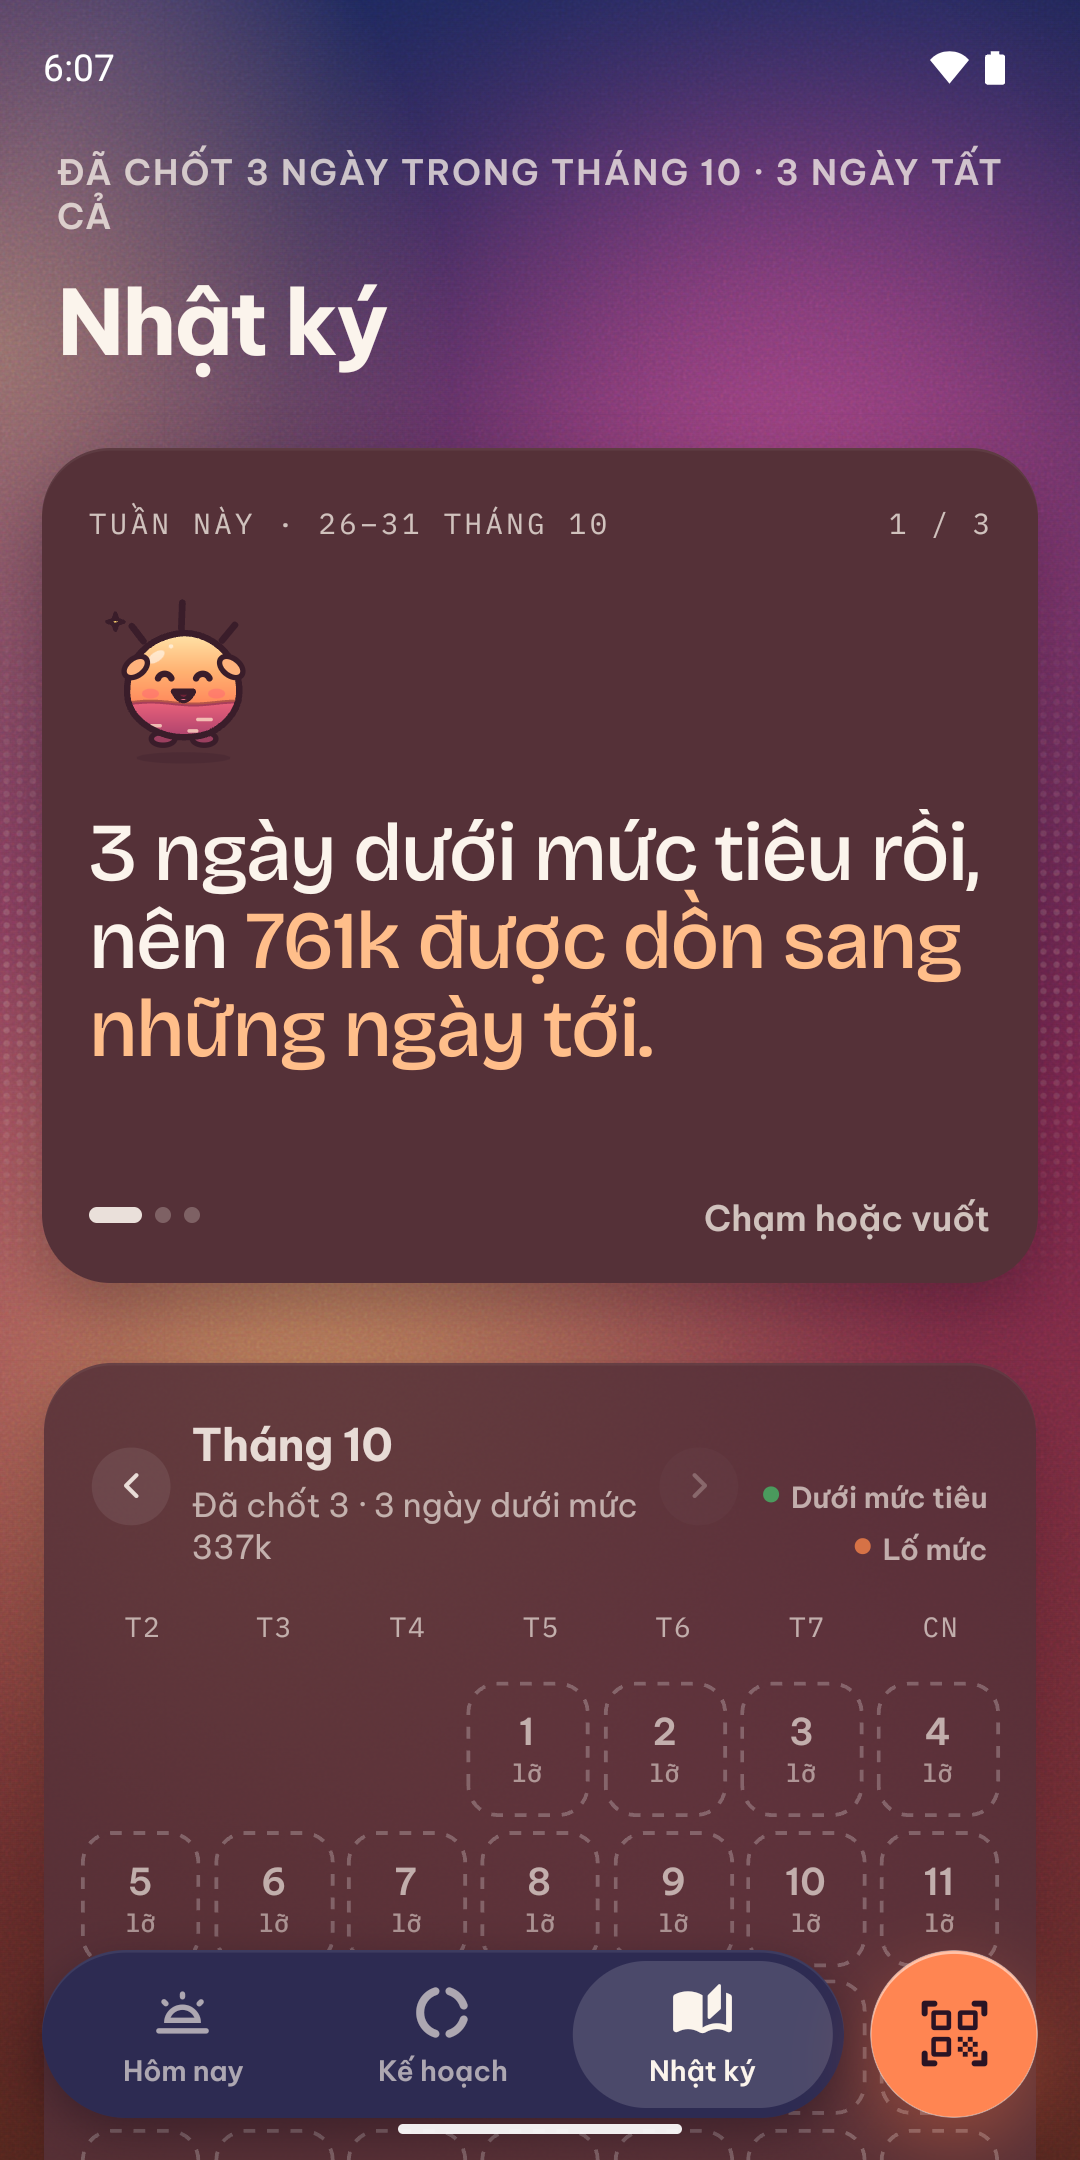
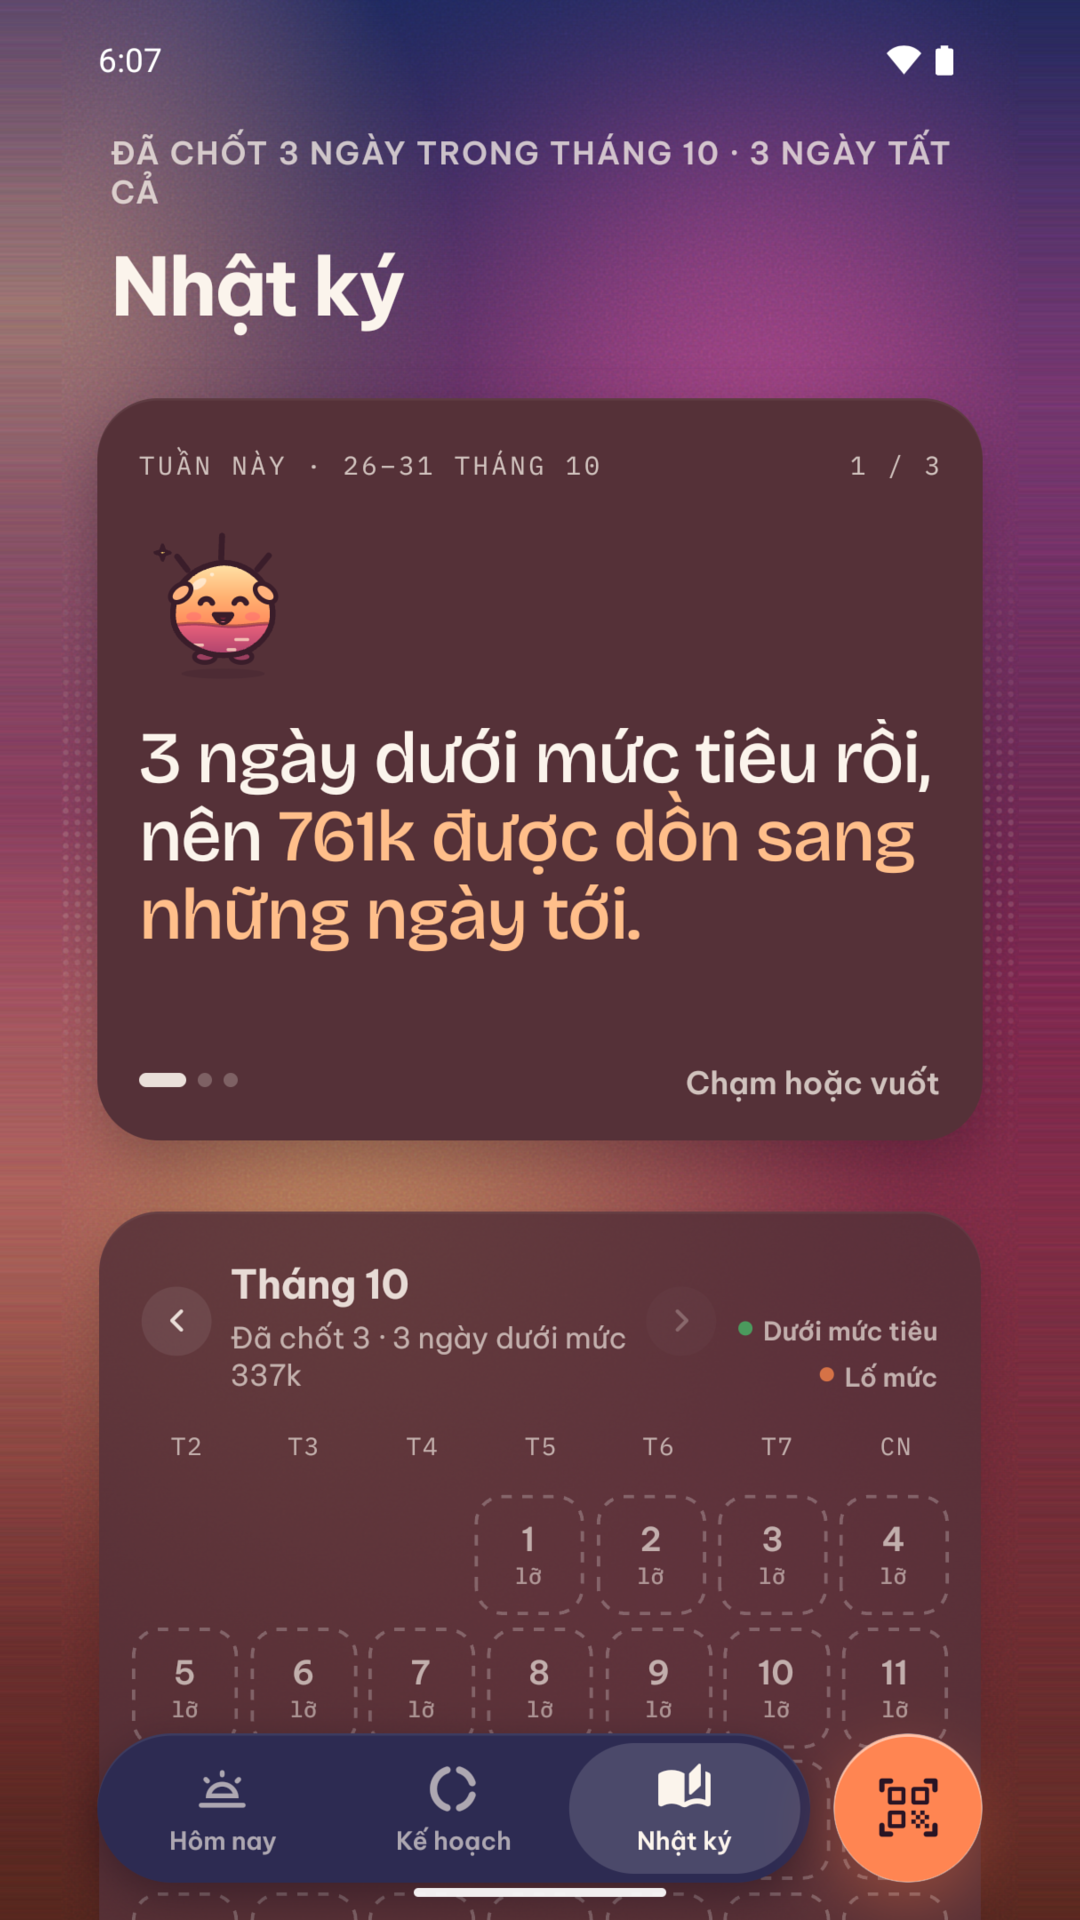
chore(store): Play billing, 9:16 screenshots and the app content answers as entered
The prd profile carries the Play Store app's RevenueCat key. The README records the RevenueCat
service account, the real-time notification topic, the Data safety answers as entered in the
Console, and the first internal testing release.

diff --git a/apps/mobile/store/play/README.md b/apps/mobile/store/play/README.md
@@ -4,7 +4,7 @@ What the Play Console asks for before a build can go to a testing track, for `ap
 build is `app.at6pm.dev`). Android cannot use the iOS id: `ai.sixpm.app` is held on Play by a
 developer account that was closed, and Play never frees a package name. The text
 follows the App Store listing (`../README.md`, `store.config.json`), less what Android does not have
-(Apple Pay, widgets, Siri, Budget together, the companion's Home Screen icon, on-device models) and
+(Apple Pay, widgets, Siri, Budget together, the companion's Home Screen icon, on-device mode) and
 with what it has instead (bank and wallet notifications).
 
 ## Graphics
@@ -13,16 +13,16 @@ with what it has instead (bank and wallet notifications).
 | --- | --- | --- |
 | `icon-512.png` | App icon | 512 × 512 |
 | `{en-US,vi}/feature-graphic.png` | Feature graphic | 1024 × 500, the App Store header creative cropped to its middle |
-| `{en-US,vi}/screenshots/*.png` | Phone screenshots | 1080 × 2160 (Play takes at most 2:1) |
+| `{en-US,vi}/screenshots/*.png` | Phone screenshots | 1080 × 1920 (Play takes only 9:16) |
 
 ### Screenshots
 
 Real captures of the developer build on the Android emulator (`sixpm-pixel`), in order: Today, the
 Close, Bank alerts, the Inbox, Quick add, Plan and Diary. Each is the Friday fixture with the clock
 pinned at 18:07 (`dev-command.json`: `{"seed":"friday","at":"18:07","route":"/close"}`, in dollars for
-en-US and đồng for vi; its categories take the app's language). The screen is set to the 2:1 Play
-allows (`adb shell wm size 1080x2160`), with the dev Tools button off and Android's demo status bar at
-18:07 (`com.android.systemui.demo`). The app language follows Android's per-app language
+en-US and đồng for vi; its categories take the app's language). The screen is set to 2:1 (`adb shell wm size 1080x2160`), with the dev Tools button off and Android's demo status bar at
+18:07 (`com.android.systemui.demo`); each is then scaled to 1920 tall and its own side edges extended to
+1080 wide, since Play takes only 9:16. The app language follows Android's per-app language
 (`cmd locale set-app-locales app.at6pm.dev --locales vi-VN`).
 
 ## Text
@@ -63,7 +63,7 @@ LOOKS AND COMPANIONS
 Eleven looks, from Sơn Mài lacquer to Neon Alley, that follow your real clock from dawn to midnight. Six companions keep you company.
 
 PRIVATE BY DESIGN
-No bank login, ever. Your money stays encrypted on your phone. On-device mode keeps everything on this phone. 6pm is open source.
+No bank login, ever. Your money stays encrypted on your phone. 6pm is open source.
 
 6pm is free. 6pm Max adds every look, unlimited Ask and pots, Travel mode, the Year book, and encrypted backup and export.
 
@@ -109,7 +109,7 @@ GIAO DIỆN VÀ BẠN ĐỒNG HÀNH
 Mười một giao diện, từ Sơn Mài đến Neon Alley, đổi theo giờ thật từ bình minh đến nửa đêm. Sáu bạn đồng hành ở bên bạn.
 
 RIÊNG TƯ TỪ ĐẦU
-Không bao giờ hỏi mật khẩu ngân hàng. Dữ liệu được mã hoá trên điện thoại. Chế độ trên máy giữ mọi thứ ở lại điện thoại. 6pm là mã nguồn mở.
+Không bao giờ hỏi mật khẩu ngân hàng. Dữ liệu được mã hoá trên điện thoại. 6pm là mã nguồn mở.
 
 6pm miễn phí. 6pm Max mở mọi giao diện, Hỏi và hũ không giới hạn, chế độ Du lịch, Sổ năm, sao lưu mã hoá và xuất dữ liệu.
 
@@ -126,7 +126,7 @@ Chính sách quyền riêng tư: https://at6pm.app/vi/privacy
 | Form | Answer |
 | --- | --- |
 | Privacy policy | https://at6pm.app/privacy (covers Android once the Android section is deployed) |
-| App access | All functionality is available without special access: no account, no login |
+| App access | No account or login, but 6pm Max is paid: the form wants a way into every paid feature, so a Max promo code goes in once the products exist (Target audience waits on this form) |
 | Ads | No ads |
 | Content rating | IARC questionnaire, category Utility/Productivity: no violence, sexuality, language, drugs, gambling or user-generated content shared with others; users do not interact; no location shared with others; digital purchases: yes |
 | Target audience | 18 and over (the policy says not made for children under 16) |
@@ -143,13 +143,18 @@ Data **collected** (leaves the phone):
 
 | Data type | Collected | Shared | Why | Optional |
 | --- | --- | --- | --- | --- |
-| App info and performance → Crash logs, Diagnostics | Yes | No | App functionality (crash reports, Sentry; off in on-device mode) | Yes (on-device mode) |
+| App info and performance → Crash logs, Diagnostics | Yes | No | Analytics (crash reports, Sentry; Android has no on-device mode to turn them off) | No |
 | Device or other IDs | Yes | No | App functionality, fraud prevention (anonymous device token, stored hashed) | No |
 | Financial info → Purchase history | Yes | No | App functionality (RevenueCat purchase status) | No |
-| Financial info → Other financial info | Yes | No | App functionality: forwarded bank emails, read and deleted once collected; receipt photos the phone cannot read | Yes |
+| Financial info → Other financial info | Yes | No | App functionality: what a forwarded bank email holds, kept until the phone collects it; receipt photos the phone cannot read | Yes |
+| Messages → Emails | Yes | No | App functionality: forwarded bank emails, read and not stored | Yes |
 | Photos | Yes | No | App functionality: a receipt photo the phone cannot read, sent once to be read, not stored | Yes |
 | Audio → Voice or sound recordings | Yes | No | App functionality: streamed to speech-to-text while you speak, not stored | Yes |
 | Messages → Other in-app messages | Yes | No | App functionality: questions asked to Ask 6pm, not stored | Yes |
+
+None is marked as processed ephemerally: Anthropic keeps requests for up to 30 days. No account
+creation (Budget together, the only sign-in, is not in the Android app). Data deletion link:
+https://at6pm.app/privacy#your-choices-and-rights.
 
 Processors (Anthropic, Deepgram, ElevenLabs, RevenueCat, Sentry, Cloudflare) act for 6pm, so this is
 "collected", not "shared". Data is encrypted in transit. Users can ask for deletion (the policy's contact).
@@ -167,10 +172,24 @@ encrypted, so Play counts it as not collected.
 | `CAMERA`, `RECORD_AUDIO`, coarse and fine location | Scan, voice, Travel mode (foreground only) |
 | No `READ_MEDIA_*` | Scan uses the system Photo Picker; saving pictures needs no read access |
 
-## Before the first release
+## Billing
 
-- **RevenueCat**: the Android app in RevenueCat and `EXPO_PUBLIC_REVENUECAT_ANDROID_KEY` in the `prd`
-  profile, plus the Play subscription and in-app products (ids as on the App Store; subscriptions
-  with a `yearly`/`monthly` base plan). Until then Max and looks show as unavailable on Android.
+- **RevenueCat**: the app "6pm (Play Store)" in the 6pm project, package `app.at6pm`; its public key is
+  `EXPO_PUBLIC_REVENUECAT_ANDROID_KEY` in the `prd` profile. Purchases are read with the service
+  account `sixpm-revenuecat@sixpm-play.iam.gserviceaccount.com` (Google Cloud project `sixpm-play`),
+  which has view, financial data and order permissions on this app only in the Play Console, and
+  Pub/Sub Admin and Monitoring Viewer in its project. Real-time notifications go through
+  `projects/sixpm-play/topics/Play-Store-Notifications`.
+- **Products**: Play shows its products page only once the account has a payments profile (merchant
+  account). Then the subscriptions `ai.sixpm.app.max.monthly` and `ai.sixpm.app.max.yearly` (base plans
+  `monthly` and `yearly`, 99.000₫ and 799.000₫, $4.99 and $34.99, a 7-day free trial) and the one-time
+  looks `ai.sixpm.app.look.<id>` (49.000₫ classic, 99.000₫ living scenes), the ids the App Store uses,
+  are imported into RevenueCat and attached to the `max` entitlement and the offerings. Until then
+  Max and looks show as unavailable on Android.
+
+## Releases
+
 - **Upload**: Play takes the first build of a new app only through the Console. Later builds can go by
   `eas submit -p android --profile prd` once a Google service account key is added in EAS.
+- **Internal testing**: the first build, versionCode 2 (2.1.0), went to internal testing on 31 Oct
+  2026 for the account's "Internal" testers list.
